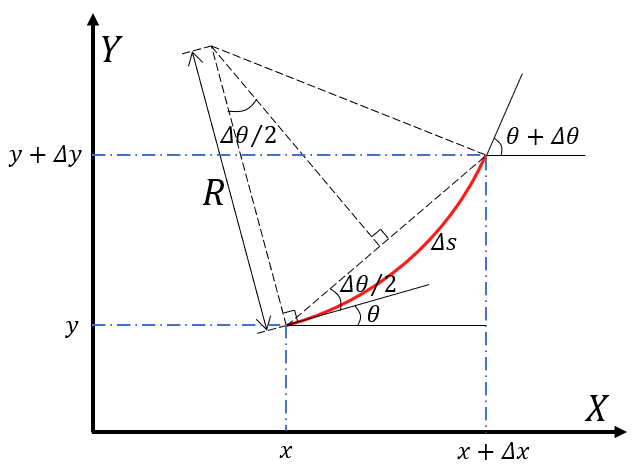
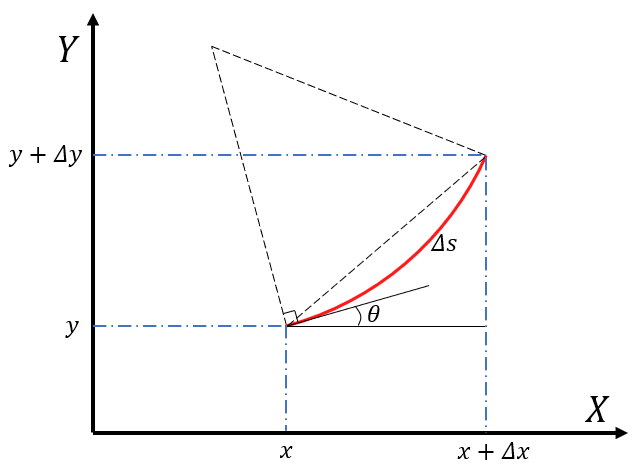
更新方法2

diff --git a/README.md b/README.md
@@ -24,7 +24,7 @@ $$
 \Delta \theta = \frac{\Delta s_l}{R - \frac{L}{2}} = \frac{\Delta s_r}{R + \frac{L}{2}} = \frac{\Delta s}{R} \tag{2}
 $$
 
-其中， $R$ 为转弯半径。根据公式 $(2)$ ，可以计算出机器人在 $\Delta t$ 时间内的航向角变化量 $\Delta \theta$ 为
+其中， $R$ 为转弯半径. 根据公式 $(2)$ ，可以计算出机器人在 $\Delta t$ 时间内的航向角变化量 $\Delta \theta$ 为
 
 $$
 \Delta \theta = \frac{\Delta s_r - \Delta s_l }{L} \tag{3}
@@ -53,7 +53,13 @@ $$
 \tag{5}
 $$
 
-假设 $\Delta t$ 足够小，机器人在 $\Delta t$ 时间内的运动过程可以近似为匀速直线运动. 根据假设，机器人在 $k$ 时刻的路程变化量为 $\Delta s_k = \Delta t \cdot v_k$ ， $x$ 位置的变化量 $\Delta x_k = \Delta s_k \cdot \cos \theta_k$， $y$ 位置的变化量 $\Delta y_k = \Delta s_k \cdot \sin \theta_k$，则
+假设 $\Delta t$ 足够小，机器人在 $\Delta t$ 时间内的运动过程可以近似为匀速直线运动. 
+
+<div align=center>
+<img src="images/encoder_odom2.png" width="500px">
+</div>
+
+根据假设，机器人在 $k$ 时刻的路程变化量为 $\Delta s_k \simeq \Delta t \cdot v_k$ ， $x$ 位置的变化量 $\Delta x_k \simeq \Delta s_k \cdot \cos \theta_k$， $y$ 位置的变化量 $\Delta y_k \simeq \Delta s_k \cdot \sin \theta_k$，则
 
 $$ 
 \begin{cases}
@@ -78,13 +84,49 @@ $$
 \tag{6}
 $$
 
-使用公式 $(6)$ 实现根据编码器数据更新机器人在参考坐标系下的位姿.
+使用公式 $(6)$ 可以实现根据编码器数据更新机器人在参考坐标系下的位姿. [Rohan P. Singh在github的开源代码](https://github.com/rohanpsingh/encoder-odometry/blob/master/encoder_odometry/src/odometry.cpp)就是根据这样的方法计算轮式里程计.
 
 ### 方法2
 
-假设 $\Delta T$ 较大，机器人在 $\Delta t$ 时间内的运动过程可以用圆弧运动来近似. 根据假设，
+假设 $\Delta t$ 较大，并且机器人在 $\Delta t$ 时间内的线速度和角速度保持不变，机器人在 $\Delta t$ 时间内的运动过程可以用圆弧运动来近似. 
 
 <div align=center>
-<img src="images/encoder_odom2.png" width="500px">
+<img src="images/encoder_odom4.png" width="500px">
 </div>
 
+根据假设，结合公式 $(3)$ 和公式 $(4)$ ，机器人在 $k$ 时刻的转弯半径 $R$ 为
+
+$$
+R_k = \frac{\Delta s_k}{\Delta \theta_k} = \frac{L}{2} \cdot \frac{\Delta s_{r,k} + \Delta s_{l,k}}{\Delta s_{r,k} - \Delta s_{l,k}} \tag{7}
+$$
+
+如上图所示，机器人在 $k$ 时刻的 $x$ 位置的变化量 $\Delta x_k$ 和 $y$ 位置的变化量 $\Delta y_k$ 可以分别表示为
+
+$$
+\begin{cases}
+\begin{aligned}
+    \Delta x_k &=  R_k \cdot \sin (\theta_k + \Delta \theta_k) - R_k \cdot \sin \theta_k \\
+    \Delta y_k &= -R_k \cdot \cos (\theta_k + \Delta \theta_k) + R_k \cdot \cos \theta_k
+\end{aligned}
+\end{cases}
+\tag{8}
+$$
+
+结合公式 $(3)$ 和公式 $(8)$ ，可以得到：
+
+$$ 
+\begin{cases}
+\begin{aligned}
+    x_{k+1} &= x_k + R_k \cdot \sin (\theta_k + \Delta \theta_k) - R_k \cdot \sin \theta_k \\
+    y_{k+1} &= y_k - R_k \cdot \cos (\theta_k + \Delta \theta_k) + R_k \cdot \cos \theta_k \\
+    \theta_{k+1} &= \theta_k + \frac{\Delta s_{r,k} - \Delta s_{l,k} }{L} 
+\end{aligned} 
+\end{cases}
+\tag{9}
+$$
+
+使用公式 $(7)$ 和公式 $(9)$ 可以实现根据编码器数据更新机器人在参考坐标系下的位姿. [Autonomy Lab at SFU在github上开源的iRobot扫地机驱动](https://github.com/AutonomyLab/libcreate/blob/master/src/create.cpp)就是根据这样的方法计算轮式里程计.
+
+参考文档：
+- Siegwart, Roland, and Illah R. Nourbakhsh. "Introduction to Autonomous Mobile Robots." Intelligent robotics and autonomous agents (2004).
+- [ARW – Lecture 01 Odometry Kinematics](https://www.hmc.edu/lair/ARW/ARW-Lecture01-Odometry.pdf)
